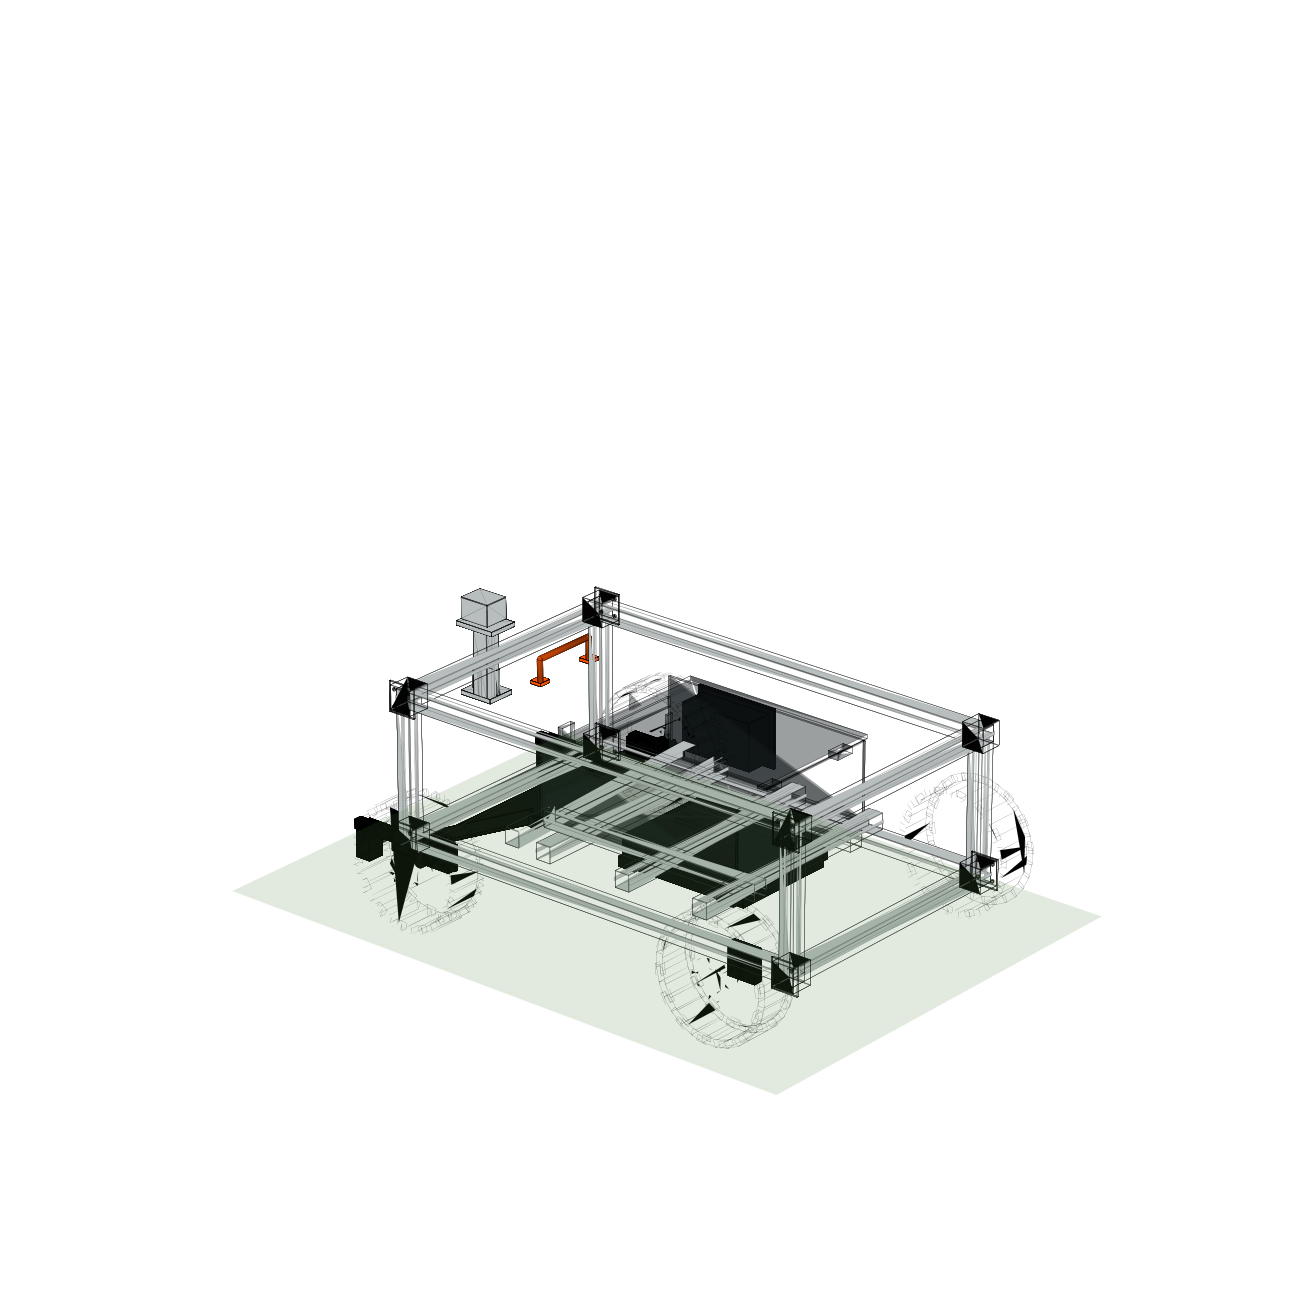
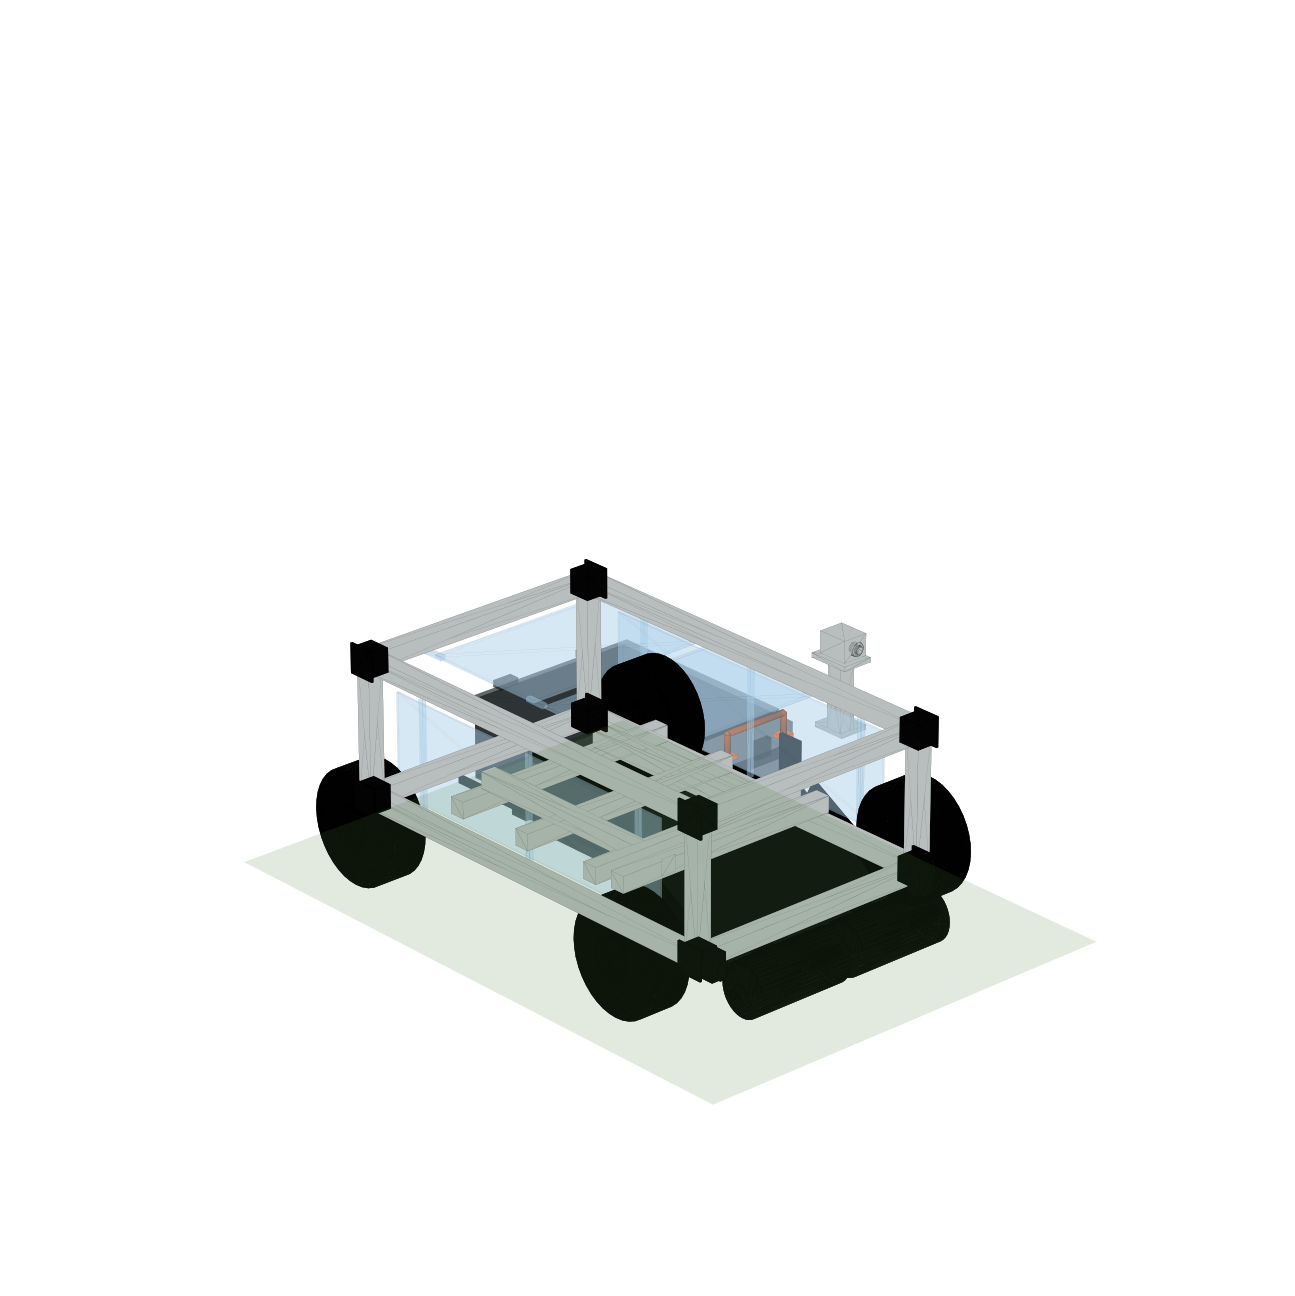
Update litter robot CAD exports

Changed region(s): [[0.1853, 0.4321, 0.8649, 0.8642], [0.7413, 0.7407, 0.8031, 0.7716]]

diff --git a/litter_robot_cad/build_litter_robot.py b/litter_robot_cad/build_litter_robot.py
@@ -42,16 +42,17 @@ WHEEL_RADIUS = WHEEL_DIAMETER / 2.0
 WHEEL_SIDE_CLEARANCE = 22.0
 WHEEL_X_OFFSET_FROM_END = 96.0
 
-BRUSH_LENGTH = 440.0
-BRUSH_CORE_RADIUS = 18.0
-BRUSH_BRISTLE_RADIUS = 38.0
-BRUSH_CENTER_Z = 47.0
-BRUSH_CENTER_X = -OVERALL_LENGTH / 2.0 - 92.0
+BRUSH_LENGTH = 195.0
+BRUSH_RADIUS = 48.0
+BRUSH_HUB_RADIUS = 14.0
+BRUSH_CENTER_Z = 56.0
+BRUSH_CENTER_X = -OVERALL_LENGTH / 2.0 - 54.0
+BRUSH_CENTER_Y = 112.0
 
 RAMP_WIDTH = 370.0
 RAMP_THICKNESS = 5.0
-RAMP_START_X = BRUSH_CENTER_X + 48.0
-RAMP_START_Z = 39.0
+RAMP_START_X = BRUSH_CENTER_X + 40.0
+RAMP_START_Z = 35.0
 RAMP_END_X = -190.0
 RAMP_END_Z = 166.0
 
@@ -85,9 +86,9 @@ EXPORT = os.path.join(ROOT, "exports")
 STEP_DIR = os.path.join(EXPORT, "step")
 STL_DIR = os.path.join(EXPORT, "stl")
 PNG_DIR = os.path.join(EXPORT, "png")
-PREVIEW_PARTS = os.path.join(EXPORT, "_preview_parts")
 STL_LINEAR_TOLERANCE = 0.35
 STL_ANGULAR_TOLERANCE = 0.32
+LIGHTWEIGHT_EXPORT = True
 
 SILVER = (0.72, 0.74, 0.74, 1.0)
 DARK_SLOT = (0.08, 0.085, 0.09, 1.0)
@@ -96,6 +97,7 @@ MATTE_BLACK = (0.035, 0.038, 0.04, 1.0)
 RUBBER = (0.005, 0.005, 0.005, 1.0)
 ORANGE = (1.0, 0.34, 0.02, 1.0)
 SMOKE = (0.08, 0.10, 0.11, 0.42)
+CLEAR = (0.68, 0.82, 0.92, 0.28)
 STEEL = (0.42, 0.43, 0.43, 1.0)
 GRASS = (0.30, 0.50, 0.23, 1.0)
 
@@ -114,6 +116,8 @@ def colorize(obj, rgba):
 
 
 def safe_fillet(part, edges, radius):
+    if LIGHTWEIGHT_EXPORT:
+        return part
     try:
         if len(edges) == 0:
             return part
@@ -160,6 +164,8 @@ def rail(axis: str, length: float, center: tuple[float, float, float]):
         1.2,
     )
     parts.append(Pos(x, y, z) * body)
+    if LIGHTWEIGHT_EXPORT:
+        return compound(parts)
 
     if axis == "x":
         slot_shapes = [
@@ -234,9 +240,10 @@ def build_brackets():
                 parts.append(Pos(x, y, z) * box(44.0, 44.0, 44.0, BLACK, 1.0))
                 plate_y = y + math.copysign(EXTRUSION / 2.0 + 2.0, y)
                 parts.append(Pos(x, plate_y, z) * box(54.0, 4.0, 54.0, BLACK, 0.6))
-                for dx in (-15.0, 15.0):
-                    for dz in (-15.0, 15.0):
-                        parts.append(bolt_disk_on_y(x + dx, plate_y + math.copysign(2.2, y), z + dz, math.copysign(1, y), 3.2))
+                if not LIGHTWEIGHT_EXPORT:
+                    for dx in (-15.0, 15.0):
+                        for dz in (-15.0, 15.0):
+                            parts.append(bolt_disk_on_y(x + dx, plate_y + math.copysign(2.2, y), z + dz, math.copysign(1, y), 3.2))
 
     # Orange brush-adjustment clevises attached to the front lower frame.
     for y in (-232.0, 232.0):
@@ -249,34 +256,18 @@ def build_wheel_at(x, y_sign):
     z = WHEEL_RADIUS
     parts = []
 
+    # Simple placeholder wheels: black cylinders with plain gray center hubs.
     tire = cyl_y(WHEEL_RADIUS, WHEEL_WIDTH, RUBBER)
+    hub = cyl_y(36.0, WHEEL_WIDTH + 6.0, STEEL)
+    cap_outer_y = y + y_sign * (WHEEL_WIDTH / 2.0 + 4.5)
+    cap_inner_y = y - y_sign * (WHEEL_WIDTH / 2.0 + 4.5)
+    cap = cyl_y(40.0, 8.0, STEEL)
+    axle_button = cyl_y(13.0, 10.0, MATTE_BLACK)
     parts.append(Pos(x, y, z) * tire)
-
-    lug_count = 28
-    for i in range(lug_count):
-        a = math.radians(i * 360.0 / lug_count)
-        lug = box(13.0, WHEEL_WIDTH + 5.0, 30.0, RUBBER, 1.0)
-        parts.append(Pos(x, y, z) * Rot(0, -math.degrees(a), 0) * Pos(WHEEL_RADIUS + 3.0, 0, 0) * lug)
-
-    # Sidewall shoulder knobs, staggered left/right.
-    for side in (-1, 1):
-        for i in range(0, lug_count, 2):
-            a = math.radians((i + 0.5) * 360.0 / lug_count)
-            knob = box(11.0, 12.0, 20.0, RUBBER, 0.8)
-            parts.append(
-                Pos(x, y + side * (WHEEL_WIDTH / 2.0 + 3.0), z)
-                * Rot(0, -math.degrees(a), 0)
-                * Pos(WHEEL_RADIUS + 1.5, 0, 0)
-                * knob
-            )
-
-    motor = cyl_y(34.0, WHEEL_WIDTH + 10.0, MATTE_BLACK)
-    cap_outer_y = y + y_sign * (WHEEL_WIDTH / 2.0 + 6.5)
-    cap = cyl_y(25.0, 7.0, ORANGE)
-    ring = cyl_y(37.0, 5.0, ORANGE) - cyl_y(29.0, 7.0, ORANGE)
-    parts.append(Pos(x, y, z) * motor)
+    parts.append(Pos(x, y, z) * hub)
     parts.append(Pos(x, cap_outer_y, z) * cap)
-    parts.append(Pos(x, cap_outer_y - y_sign * 5.0, z) * ring)
+    parts.append(Pos(x, cap_inner_y, z) * cap)
+    parts.append(Pos(x, cap_outer_y + y_sign * 1.0, z) * axle_button)
     return compound(parts)
 
 
@@ -303,9 +294,10 @@ def build_wheel_mounts():
             axle_len = abs(wheel_y - rail_outer_y)
             axle_center_y = (wheel_y + rail_outer_y) / 2.0
             parts.append(Pos(x, axle_center_y, WHEEL_RADIUS) * cyl_y(12.0, axle_len, STEEL))
-            for dx in (-18.0, 18.0):
-                parts.append(bolt_disk_on_y(x + dx, rail_outer_y + s * 9.5, WHEEL_RADIUS + 18.0, s, 3.5))
-                parts.append(bolt_disk_on_y(x + dx, rail_outer_y + s * 9.5, WHEEL_RADIUS - 18.0, s, 3.5))
+            if not LIGHTWEIGHT_EXPORT:
+                for dx in (-18.0, 18.0):
+                    parts.append(bolt_disk_on_y(x + dx, rail_outer_y + s * 9.5, WHEEL_RADIUS + 18.0, s, 3.5))
+                    parts.append(bolt_disk_on_y(x + dx, rail_outer_y + s * 9.5, WHEEL_RADIUS - 18.0, s, 3.5))
     return compound(parts)
 
 
@@ -313,26 +305,28 @@ def build_brush_assembly():
     parts = []
     lower_z = GROUND_CLEARANCE + EXTRUSION / 2.0
 
-    # Orange side arms bolt to the front lower frame and carry the brush bearings.
-    for y in (-232.0, 232.0):
-        parts.append(Pos(-OVERALL_LENGTH / 2.0 - 58.0, y, lower_z - 18.0) * box(120.0, 16.0, 18.0, ORANGE, 1.0))
-        parts.append(Pos(BRUSH_CENTER_X, y, BRUSH_CENTER_Z + 9.0) * box(30.0, 34.0, 54.0, ORANGE, 1.2))
-        parts.append(Pos(BRUSH_CENTER_X + 28.0, y, BRUSH_CENTER_Z + 40.0) * box(60.0, 8.0, 18.0, ORANGE, 0.8))
+    # Two large, low, simple rollers cover the ramp inlet without dense bristle detail.
+    for y in (-BRUSH_CENTER_Y, BRUSH_CENTER_Y):
+        parts.append(Pos(-OVERALL_LENGTH / 2.0 - 30.0, y, lower_z - 22.0) * box(135.0, 18.0, 20.0, ORANGE, 1.0))
+        parts.append(Pos(BRUSH_CENTER_X, y, BRUSH_CENTER_Z + 4.0) * box(32.0, 28.0, 62.0, ORANGE, 1.0))
+        parts.append(Pos(BRUSH_CENTER_X, y, BRUSH_CENTER_Z) * cyl_y(8.0, BRUSH_LENGTH + 42.0, STEEL))
+        parts.append(Pos(BRUSH_CENTER_X, y, BRUSH_CENTER_Z) * cyl_y(BRUSH_RADIUS, BRUSH_LENGTH, BLACK))
+        parts.append(Pos(BRUSH_CENTER_X, y, BRUSH_CENTER_Z) * cyl_y(BRUSH_HUB_RADIUS, BRUSH_LENGTH + 10.0, MATTE_BLACK))
 
-    axle = Pos(BRUSH_CENTER_X, 0, BRUSH_CENTER_Z) * cyl_y(9.0, BRUSH_LENGTH + 88.0, STEEL)
-    core = Pos(BRUSH_CENTER_X, 0, BRUSH_CENTER_Z) * cyl_y(BRUSH_CORE_RADIUS, BRUSH_LENGTH, BLACK)
-    parts.extend([axle, core])
+        if not LIGHTWEIGHT_EXPORT:
+            # Coarse raised ribs suggest a rough brush surface without modeling individual bristles.
+            for i in range(10):
+                a = math.radians(i * 360.0 / 10.0)
+                rib = box(7.0, BRUSH_LENGTH + 3.0, 6.0, BLACK, 0.5)
+                parts.append(
+                    Pos(BRUSH_CENTER_X, y, BRUSH_CENTER_Z)
+                    * Rot(0, -math.degrees(a), 0)
+                    * Pos(BRUSH_RADIUS + 2.0, 0, 0)
+                    * rib
+                )
 
-    bristle_count = 44
-    for i in range(bristle_count):
-        a = math.radians(i * 360.0 / bristle_count)
-        bristle = box(BRUSH_BRISTLE_RADIUS - BRUSH_CORE_RADIUS + 2.0, 3.2, 4.0, BLACK, 0.0)
-        parts.append(
-            Pos(BRUSH_CENTER_X, 0, BRUSH_CENTER_Z)
-            * Rot(0, -math.degrees(a), 0)
-            * Pos((BRUSH_CORE_RADIUS + BRUSH_BRISTLE_RADIUS) / 2.0, 0, 0)
-            * bristle
-        )
+    center_guard = box(24.0, 34.0, 52.0, MATTE_BLACK, 0.8)
+    parts.append(Pos(BRUSH_CENTER_X + 10.0, 0, BRUSH_CENTER_Z + 10.0) * center_guard)
     return compound(parts)
 
 
@@ -447,17 +441,72 @@ def build_top_handles():
     return compound(parts)
 
 
+def build_transparent_body_panels():
+    lower_z = GROUND_CLEARANCE + EXTRUSION
+    upper_z = FRAME_HEIGHT - EXTRUSION
+    side_y = OVERALL_WIDTH / 2.0 - EXTRUSION / 2.0
+    body_center_z = (lower_z + upper_z) / 2.0
+    body_height = upper_z - lower_z
+    parts = []
+
+    # Transparent service panels make the internal bin, ramp, battery, and electronics readable.
+    for y in (-side_y - 3.0, side_y + 3.0):
+        parts.append(Pos(5.0, y, body_center_z) * box(660.0, 4.0, body_height - 34.0, CLEAR, 0.8))
+        for x in (-270.0, 0.0, 270.0):
+            parts.append(Pos(x, y, body_center_z) * box(9.0, 8.0, body_height - 18.0, BLACK, 0.5))
+
+    top_panel_z = FRAME_HEIGHT + 3.5
+    parts.append(Pos(-92.0, 0, top_panel_z) * box(260.0, 360.0, 5.0, CLEAR, 0.6))
+    parts.append(Pos(190.0, 0, top_panel_z) * box(250.0, 360.0, 5.0, CLEAR, 0.6))
+    for x in (-225.0, 55.0, 315.0):
+        parts.append(Pos(x, -182.0, top_panel_z + 3.5) * box(42.0, 10.0, 8.0, BLACK, 0.4))
+        parts.append(Pos(x, 182.0, top_panel_z + 3.5) * box(42.0, 10.0, 8.0, BLACK, 0.4))
+
+    return compound(parts)
+
+
+def build_chassis_body_details():
+    parts = []
+
+    # Interior engineered details: bin cradle rails, ramp side guides, electronics/battery straps.
+    for y in (-BIN_WIDTH / 2.0 - 18.0, BIN_WIDTH / 2.0 + 18.0):
+        parts.append(Pos(BIN_CENTER_X, y, BIN_BOTTOM_Z - 4.0) * box(BIN_LENGTH + 42.0, 8.0, 12.0, BLACK, 0.4))
+        parts.append(Pos(BIN_FRONT_X + 22.0, y, BIN_BOTTOM_Z + 52.0) * box(46.0, 8.0, 96.0, BLACK, 0.4))
+
+    ramp_dx = RAMP_END_X - RAMP_START_X
+    ramp_dz = RAMP_END_Z - RAMP_START_Z
+    ramp_len = math.hypot(ramp_dx, ramp_dz)
+    ramp_angle = -math.degrees(math.atan2(ramp_dz, ramp_dx))
+    ramp_cx = (RAMP_START_X + RAMP_END_X) / 2.0
+    ramp_cz = (RAMP_START_Z + RAMP_END_Z) / 2.0
+    for y in (-RAMP_WIDTH / 2.0 - 17.0, RAMP_WIDTH / 2.0 + 17.0):
+        parts.append(Pos(ramp_cx, y, ramp_cz + 24.0) * Rot(0, ramp_angle, 0) * box(ramp_len - 22.0, 9.0, 32.0, BLACK, 0.4))
+
+    for x in (BATTERY_CENTER_X - 82.0, BATTERY_CENTER_X + 82.0):
+        parts.append(Pos(x, 0, BATTERY_CENTER_Z + BATTERY_HEIGHT / 2.0 + 9.0) * box(12.0, BATTERY_WIDTH + 38.0, 10.0, ORANGE, 0.4))
+
+    electronics_bus_x = -18.0
+    electronics_bus_y = OVERALL_WIDTH / 2.0 - 92.0
+    parts.append(Pos(electronics_bus_x, electronics_bus_y, 262.0) * box(180.0, 16.0, 16.0, BLACK, 0.4))
+    for x in (-85.0, -35.0, 15.0, 65.0):
+        parts.append(Pos(x, electronics_bus_y - 10.0, 262.0) * cyl_y(3.0, 22.0, ORANGE))
+
+    return compound(parts)
+
+
 def build_assembly_groups():
     return [
         PartGroup("frame_rails", build_frame(), SILVER),
         PartGroup("corner_brackets_and_bolts", build_brackets(), BLACK),
         PartGroup("wheel_mounts_and_axles", build_wheel_mounts(), BLACK),
-        PartGroup("knobby_wheels", build_wheels(), RUBBER),
+        PartGroup("simple_cylindrical_wheels", build_wheels(), RUBBER),
         PartGroup("front_brush_assembly", build_brush_assembly(), BLACK),
         PartGroup("angled_scoop_ramp", build_ramp(), MATTE_BLACK),
         PartGroup("waste_bin_panel_assembly", build_waste_bin(), SMOKE, 0.62),
         PartGroup("low_central_battery_box", build_battery(), MATTE_BLACK),
         PartGroup("electronics_enclosure", build_electronics(), MATTE_BLACK),
+        PartGroup("transparent_body_panels", build_transparent_body_panels(), CLEAR, 0.34),
+        PartGroup("chassis_body_detail_hardware", build_chassis_body_details(), BLACK),
         PartGroup("camera_mast_module", build_camera_mast(), SILVER),
         PartGroup("orange_service_handles", build_top_handles(), ORANGE),
     ]
@@ -471,7 +520,6 @@ def export_all():
     os.makedirs(STEP_DIR, exist_ok=True)
     os.makedirs(STL_DIR, exist_ok=True)
     os.makedirs(PNG_DIR, exist_ok=True)
-    os.makedirs(PREVIEW_PARTS, exist_ok=True)
 
     groups = build_assembly_groups()
     full = compound([g.obj for g in groups])
@@ -487,12 +535,6 @@ def export_all():
         export_stl(
             group.obj,
             os.path.join(STL_DIR, f"{group.name}.stl"),
-            tolerance=STL_LINEAR_TOLERANCE,
-            angular_tolerance=STL_ANGULAR_TOLERANCE,
-        )
-        export_stl(
-            group.obj,
-            os.path.join(PREVIEW_PARTS, f"{group.name}.stl"),
             tolerance=STL_LINEAR_TOLERANCE,
             angular_tolerance=STL_ANGULAR_TOLERANCE,
         )
@@ -542,7 +584,7 @@ def render_preview(groups):
     all_pts.append(ground.reshape(-1, 3))
 
     for group in groups:
-        path = os.path.join(PREVIEW_PARTS, f"{group.name}.stl")
+        path = os.path.join(STL_DIR, f"{group.name}.stl")
         tris = read_binary_stl(path)
         add_solid(ax, tris, group.color, alpha=group.preview_alpha)
         all_pts.append(tris.reshape(-1, 3))
@@ -556,7 +598,7 @@ def render_preview(groups):
     ax.set_ylim(cy - r, cy + r)
     ax.set_zlim(max(0, cz - r * 0.62), cz + r * 1.02)
     ax.set_box_aspect((1, 1, 0.72))
-    ax.view_init(elev=23, azim=-50)
+    ax.view_init(elev=24, azim=138)
     ax.set_axis_off()
     ax.set_facecolor((1, 1, 1, 1))
     fig.patch.set_facecolor((1, 1, 1, 1))
@@ -572,9 +614,10 @@ def sanity_checks():
     wheel_inner_y = wheel_center_y - WHEEL_WIDTH / 2.0
     checks.append(("wheel/frame side clearance", wheel_inner_y - side_outer >= 18.0, wheel_inner_y - side_outer))
 
-    brush_bottom = BRUSH_CENTER_Z - BRUSH_BRISTLE_RADIUS
-    checks.append(("brush bristle ground clearance", 5.0 <= brush_bottom <= 16.0, brush_bottom))
+    brush_bottom = BRUSH_CENTER_Z - BRUSH_RADIUS
+    checks.append(("brush roller ground clearance", 5.0 <= brush_bottom <= 16.0, brush_bottom))
     checks.append(("ramp starts behind brush", RAMP_START_X > BRUSH_CENTER_X, RAMP_START_X - BRUSH_CENTER_X))
+    checks.append(("ramp starts under brush envelope", RAMP_START_X - BRUSH_CENTER_X < BRUSH_RADIUS, RAMP_START_X - BRUSH_CENTER_X))
     checks.append(("ramp reaches bin inlet X", abs(RAMP_END_X - BIN_FRONT_X) <= 1.0, abs(RAMP_END_X - BIN_FRONT_X)))
     checks.append(("ramp outlet within bin opening Z", BIN_BOTTOM_Z - 10.0 <= RAMP_END_Z <= BIN_BOTTOM_Z + 95.0, RAMP_END_Z))
 

diff --git a/README.md b/README.md
@@ -5,9 +5,9 @@ Parametric CAD base model for a compact autonomous litter-collection robot.
 ## Litter Robot CAD
 
 The CAD source lives in `litter_robot_cad/build_litter_robot.py`. It builds a
-four-wheel aluminum T-slot frame prototype with a front mechanical brush, scoop
-ramp, internal waste bin, low battery box, electronics enclosure, and camera
-mast.
+four-wheel aluminum T-slot frame prototype with simplified cylindrical wheels,
+two low front brush rollers, a scoop ramp, internal waste bin, low battery box,
+electronics enclosure, transparent panels, and camera mast.
 
 Generated deliverables are included under `litter_robot_cad/exports/`:
 